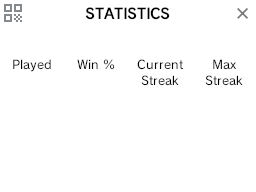
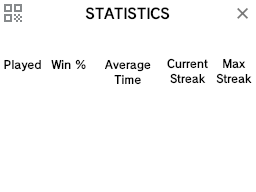
Add average time to stats menu

Changed region(s): [[0.0, 0.2812, 1.0, 0.4688]]

diff --git a/source/stats.cpp b/source/stats.cpp
@@ -9,6 +9,7 @@
 #include <array>
 #include <algorithm>
 #include <nds.h>
+#include <numeric>
 #include <qrencode.h>
 
 Stats::Stats(const std::string &path) : _path(path) {
@@ -185,11 +186,25 @@ void Stats::showMenu() {
 		.decompressPal(BG_PALETTE_SUB);
 
 	while(1) {
-		// Print scores
-		game->data().numbersLarge().print(-96, 32, false, _gamesPlayed, Alignment::center);
-		game->data().numbersLarge().print(-32, 32, false, std::count_if(_guessCounts.begin(), _guessCounts.end(), [](int a) { return a <= game->data().maxGuesses(); }) * 100 / _gamesPlayed, Alignment::center);
-		game->data().numbersLarge().print(32, 32, false, _streak, Alignment::center);
-		game->data().numbersLarge().print(96, 32, false, _maxStreak, Alignment::center).update(false);
+		// Print stats
+		if(game->data().oldStatsMenu()) {
+			// Old version without the average time
+			game->data().numbersLarge().print(-96, 32, false, _gamesPlayed, Alignment::center);
+			game->data().numbersLarge().print(-32, 32, false, std::count_if(_guessCounts.begin(), _guessCounts.end(), [](int a) { return a <= game->data().maxGuesses(); }) * 100 / _gamesPlayed, Alignment::center);
+			game->data().numbersLarge().print(32, 32, false, _streak, Alignment::center);
+			game->data().numbersLarge().print(96, 32, false, _maxStreak, Alignment::center).update(false);
+		} else {
+			int averageTime = std::accumulate(_completionTimes.begin(), _completionTimes.end(), 0) / _completionTimes.size();
+			char timeStr[16];
+			sprintf(timeStr, "%d:%02d", averageTime / 60, averageTime % 60);
+
+			game->data().numbersLarge().print(-105, 32, false, _gamesPlayed, Alignment::center);
+			game->data().numbersLarge().print(-60, 32, false, std::count_if(_guessCounts.begin(), _guessCounts.end(), [](int a) { return a <= game->data().maxGuesses(); }) * 100 / _gamesPlayed, Alignment::center);
+			game->data().numbersLarge().print(0, 32, false, timeStr, Alignment::center).update(false);
+			game->data().numbersLarge().print(60, 32, false, _streak, Alignment::center);
+			game->data().numbersLarge().print(105, 32, false, _maxStreak, Alignment::center).update(false);
+
+		}
 
 		// Draw guess percentage bars
 		int highestCount = 0;

diff --git a/source/gameData.cpp b/source/gameData.cpp
@@ -56,17 +56,24 @@ GameData::GameData(const std::string &folder) {
 
 	Json json((modPath + MOD_JSON).c_str());
 	if(json.get() != nullptr) {
+		const char *minVer = nullptr;
 		if(json.contains("minVersion") && json["minVersion"].isString()) {
-			const char *minVer = json["minVersion"].get()->valuestring;
+			minVer = json["minVersion"].get()->valuestring;
 			sassert(strcmp(VER_NUMBER, minVer) >= 0, "This mod requires Wordle DS\nversion %s or newer, please update.\n\n(You have " VER_NUMBER ")", minVer);
+		}
 
-			// If it supports v2.0.0 and has a custom settings bg, revert to old positions
-			if(strcmp("v2.0.0", minVer) <= 0 && access((modPath + "/settingsBottom.grf").c_str(), F_OK) == 0) {
+		// If it supports v2.0.0, revert to old defaults
+		if(!minVer || strcmp("v2.0.0", minVer) <= 0) {
+			if(access((modPath + "/settingsBottom.grf").c_str(), F_OK) == 0) {
 				_hardModeToggle = {224, 37, 21, 13};
 				_highContrastToggle = {224, 76, 21, 13};
 				_musicToggle = {224, 102, 21, 13};
 				_shareMsgBtn = {-1, -1, 0, 0};
 				_modBtn = {224, 127, 21, 13};
+			}
+
+			if(access((modPath + "/statsBottom.grf").c_str(), F_OK) == 0) {
+				_oldStatsMenu = true;
 			}
 		}
 

diff --git a/include/gameData.hpp b/include/gameData.hpp
@@ -49,6 +49,8 @@ class GameData {
 	Button _shareTimerToggle = {224, 37, 21, 13};
 	Button _shareStreakToggle = {224, 82, 21, 13};
 
+	bool _oldStatsMenu = false;
+
 	std::vector<std::u16string> _howtoWords = {
 		u"WEARY",
 		u"PILLS",
@@ -205,6 +207,8 @@ public:
 
 	const Button &shareTimerToggle(void) const { return _shareTimerToggle; }
 	const Button &shareStreakToggle(void) const { return _shareStreakToggle; }
+
+	bool oldStatsMenu(void) const { return _oldStatsMenu; }
 
 	const std::vector<char16_t> &letters(void) const { return _letters; }
 	char16_t letters(size_t i) const { return _letters[i]; }
